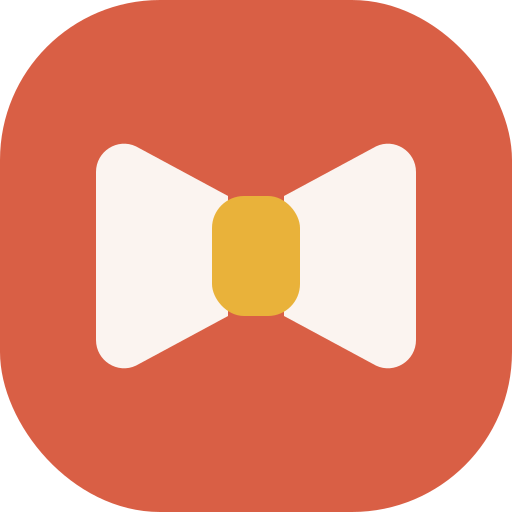
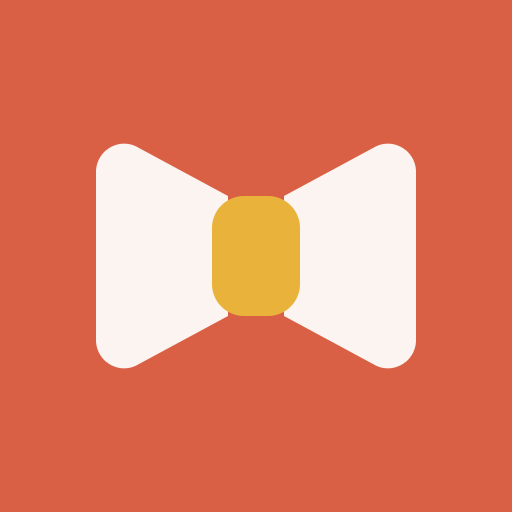
Icône nœud papillon sur l'écran d'accueil iPhone
Icône Apple 180 px pleine (sans transparence), sur l'appli et le site vitrine,
titre « Lucien » à l'ajout, icône Android « maskable » séparée.

Claude-Session: https://claude.ai/code/session_01SKXp3YtnicuTMZX8UfmED5

diff --git a/web/index.html b/web/index.html
@@ -7,7 +7,8 @@
     <meta name="apple-mobile-web-app-capable" content="yes" />
     <meta name="apple-mobile-web-app-status-bar-style" content="black-translucent" />
     <link rel="icon" href="/icon.svg" type="image/svg+xml" />
-    <link rel="apple-touch-icon" href="/icon-192.png" />
+    <link rel="apple-touch-icon" sizes="180x180" href="apple-touch-icon.png" />
+    <meta name="apple-mobile-web-app-title" content="Lucien" />
     <link rel="preconnect" href="https://fonts.googleapis.com" />
     <link rel="preconnect" href="https://fonts.gstatic.com" crossorigin />
     <link href="https://fonts.googleapis.com/css2?family=Fraunces:ital,opsz,wght@1,9..144,500;1,9..144,600;0,9..144,600&family=Nunito:wght@500;600;700;800&display=swap" rel="stylesheet" />

diff --git a/demo-site/index.html b/demo-site/index.html
@@ -10,6 +10,8 @@
 <meta property="og:image" content="img/app-home.webp">
 <meta name="theme-color" content="#FBF4F0">
 <link rel="icon" href="icon.svg" type="image/svg+xml">
+<link rel="apple-touch-icon" sizes="180x180" href="apple-touch-icon.png">
+<meta name="apple-mobile-web-app-title" content="Lucien">
 <link rel="preconnect" href="https://fonts.googleapis.com">
 <link rel="preconnect" href="https://fonts.gstatic.com" crossorigin>
 <link href="https://fonts.googleapis.com/css2?family=Fraunces:ital,opsz,wght@0,9..144,500;0,9..144,600;1,9..144,500;1,9..144,600&family=Nunito:wght@500;600;700;800;900&display=swap" rel="stylesheet">

diff --git a/site/index.html b/site/index.html
@@ -10,6 +10,8 @@
 <meta property="og:image" content="img/app-home.webp">
 <meta name="theme-color" content="#FBF4F0">
 <link rel="icon" href="icon.svg" type="image/svg+xml">
+<link rel="apple-touch-icon" sizes="180x180" href="apple-touch-icon.png">
+<meta name="apple-mobile-web-app-title" content="Lucien">
 <link rel="preconnect" href="https://fonts.googleapis.com">
 <link rel="preconnect" href="https://fonts.gstatic.com" crossorigin>
 <link href="https://fonts.googleapis.com/css2?family=Fraunces:ital,opsz,wght@0,9..144,500;0,9..144,600;1,9..144,500;1,9..144,600&family=Nunito:wght@500;600;700;800;900&display=swap" rel="stylesheet">

diff --git a/web/vite.config.ts b/web/vite.config.ts
@@ -26,7 +26,8 @@ export default defineConfig({
         id: "./",
         icons: [
           { src: "icon-192.png", sizes: "192x192", type: "image/png" },
-          { src: "icon-512.png", sizes: "512x512", type: "image/png", purpose: "any maskable" },
+          { src: "icon-512.png", sizes: "512x512", type: "image/png", purpose: "any" },
+          { src: "icon-512-maskable.png", sizes: "512x512", type: "image/png", purpose: "maskable" },
         ],
       },
     }),
